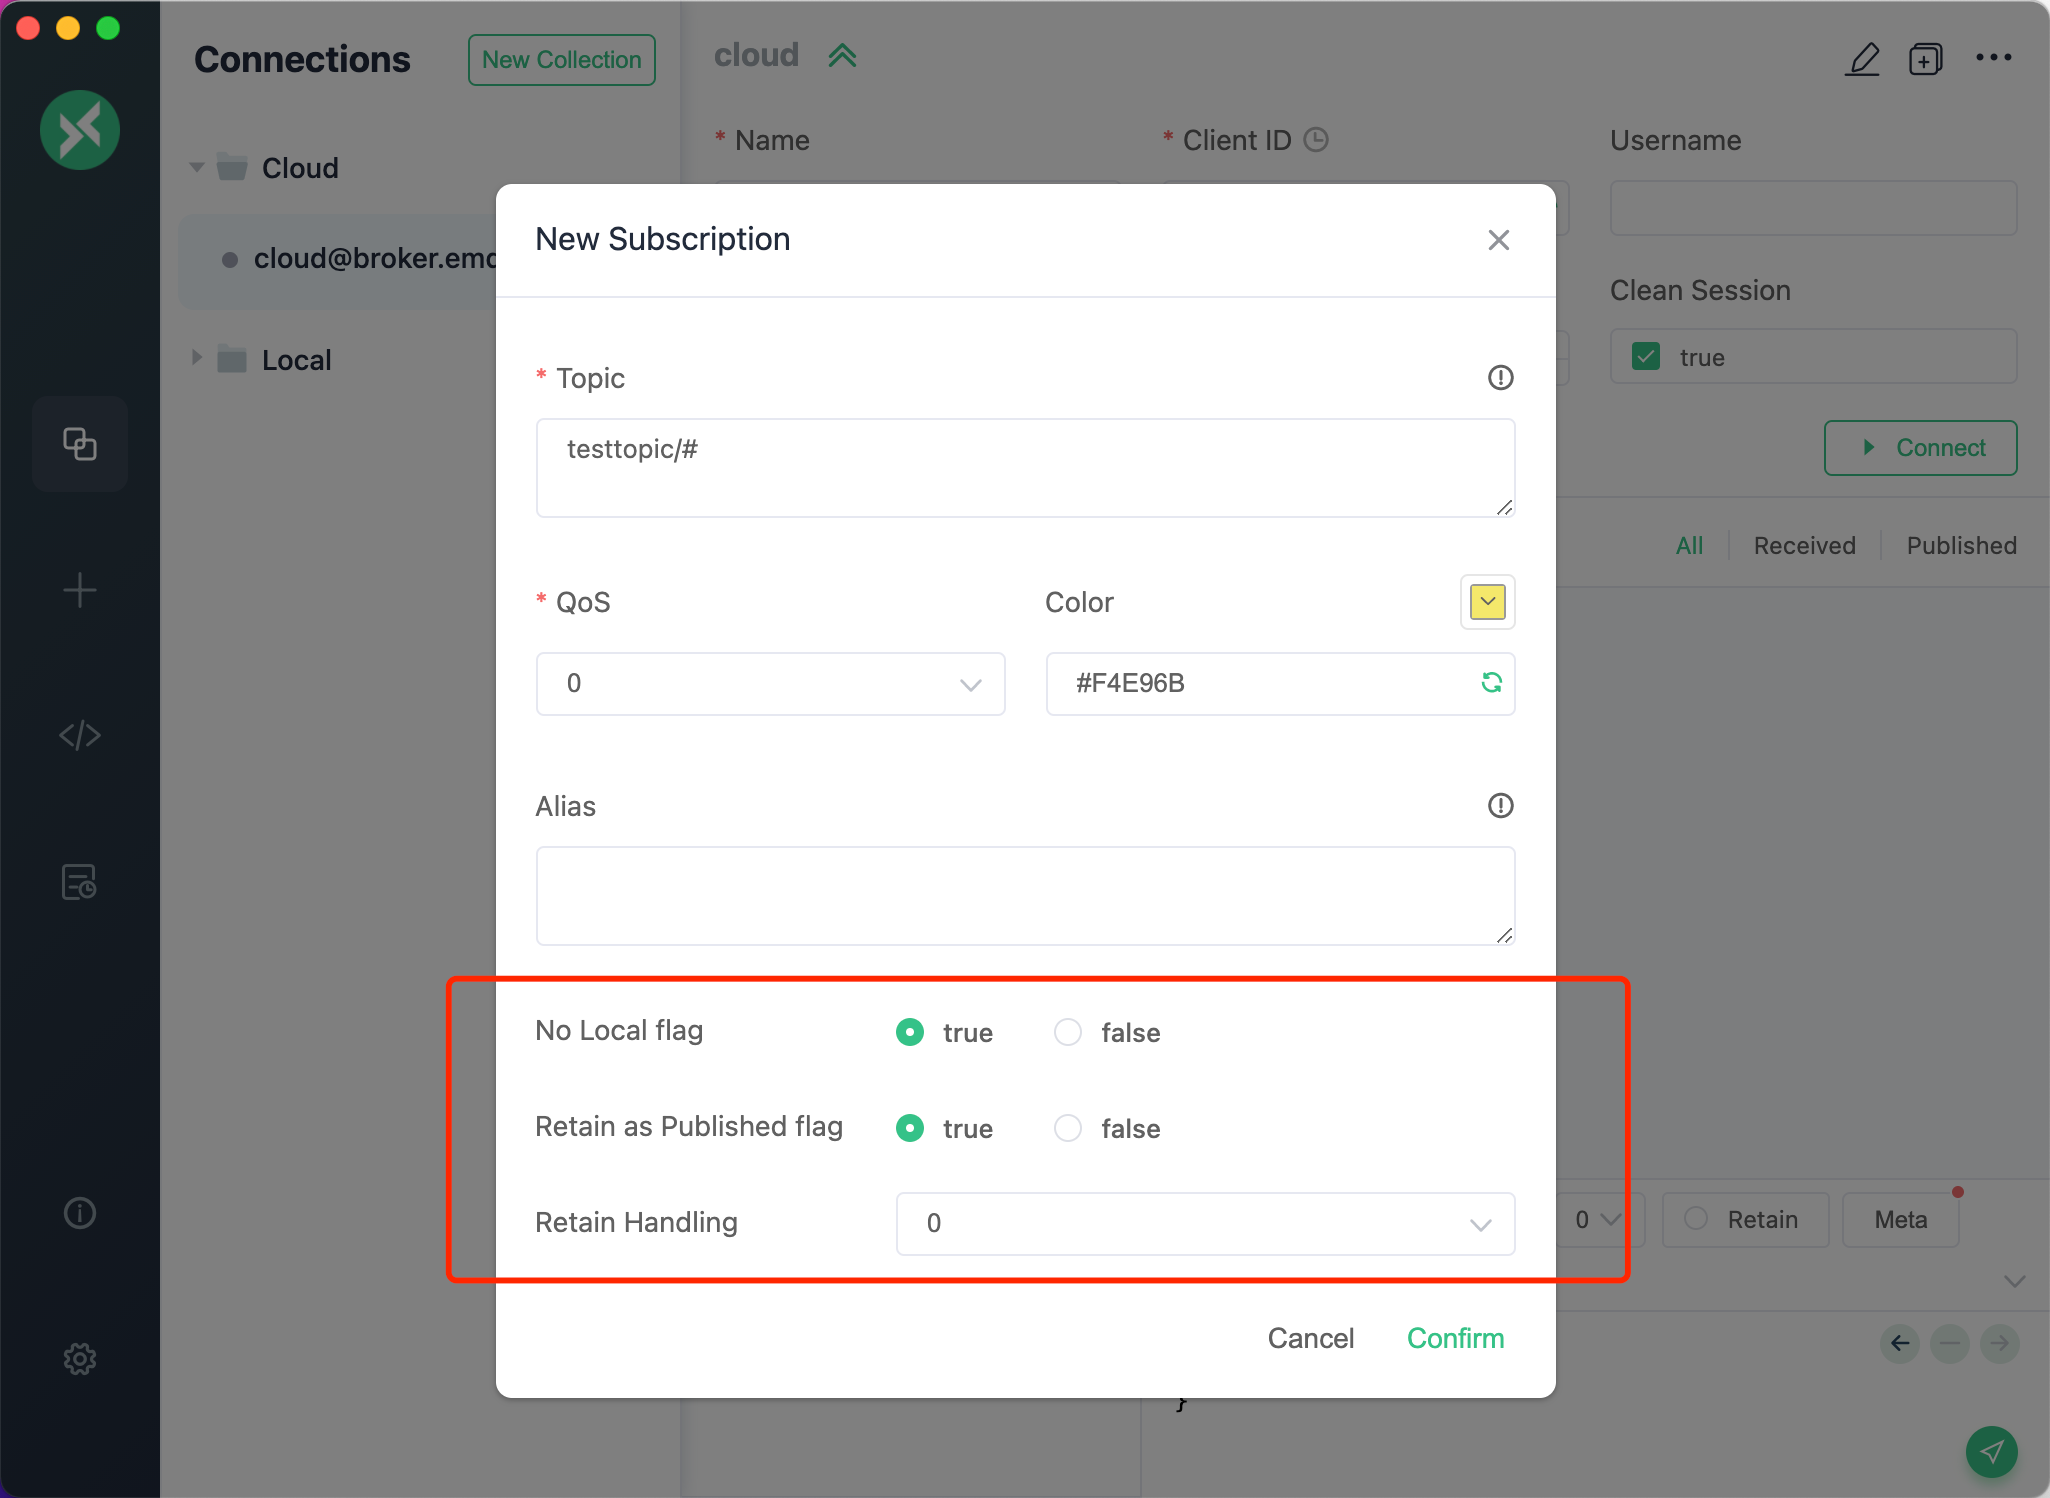
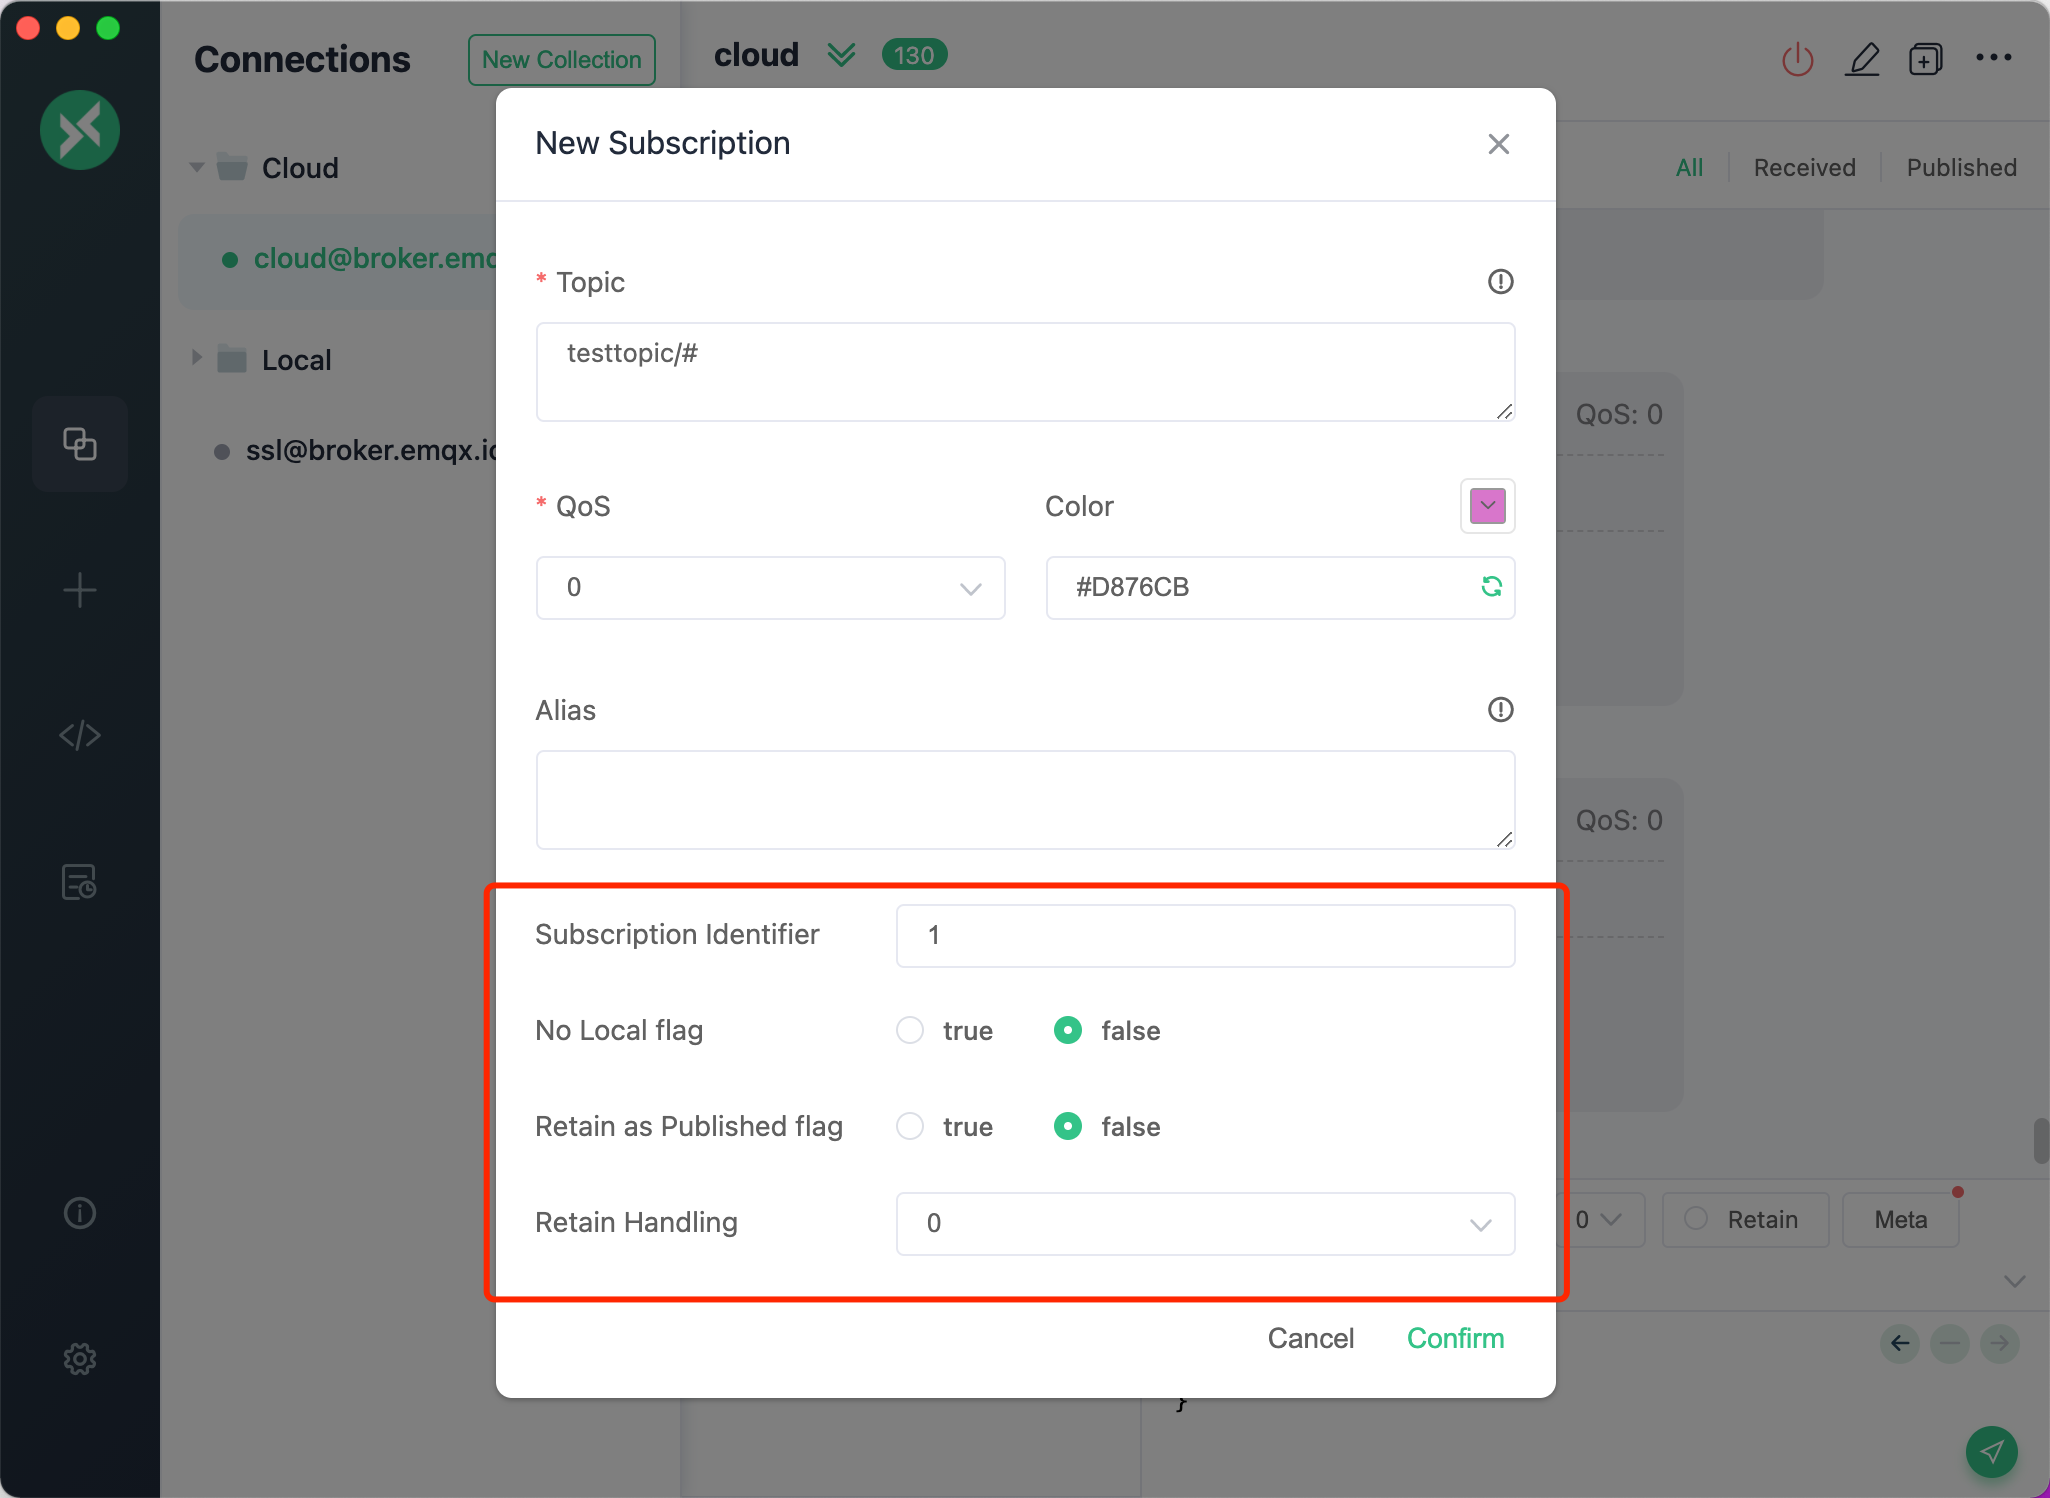
docs(manual): update docs

diff --git a/docs/manual.md b/docs/manual.md
@@ -55,9 +55,10 @@ For Windows users, please download the latest version of the `exe` file. After d
 
 For Linux users, please download the latest version of the `AppImage` file or use the snap file for quick installation.
 
-For installation using `snap` file, you can also execute this command to quickly install or visit Snap Store:
+For installation using `snap` file, you can also execute this command to quickly install or visit Snap Store or Flathub:
 
 [![Get it from the Snap Store](https://snapcraft.io/static/images/badges/en/snap-store-black.svg)](https://snapcraft.io/mqttx)
+<a href='https://flathub.org/apps/details/com.emqx.MQTTX'><img height='56' alt='Download on Flathub' src='https://flathub.org/assets/badges/flathub-badge-en.png'/></a>
 
 ```shell
 sudo snap install mqttx
@@ -159,6 +160,10 @@ After the configuration is complete, click the `Connect` button in the upper rig
 
 ![mqttx-muti-topics](../assets/mqttx-muti-topics.png)
 
+   Subscribed Topics support **Edit/Disable/Enable**, right click on the subscribed Topic list item, in the context menu we can quickly choose to edit, disable or enable the operation. When subscribing to too many Topics, sometimes not all the Topic messages you want to receive, in order to avoid subscribing to the same Topic again, the disable function is provided, if you want to receive messages from the Topic again, just enable it again.
+
+![mqttx-edit-topic](../assets/mqttx-edit-topic.png)
+
 3. Sending and receiving of messages
 
    After the `Topic` is successfully subscribed, you can test the sending and receiving of messages. Fill in the `Topic` information you just subscribed to in the lower right corner of the page. You can select the values of `QoS`, `Retain`, input `payload`, and click the send button on the far right to send a message to the `Topic` you just subscribed. After sending successfully, you can immediately receive the message just sent. Note that in the message box, the right column is the sent message, and the left column is the received message. MacOS users can use the `command + enter` shortcut to quickly send messages, and other users can use the `control + enter` shortcut to do that.
@@ -193,9 +198,9 @@ So far, the test of an `MQTT` message is completed.
 
 ![mqttx-content-type](../assets/mqttx-content-type.png)
 
-4. Subscribe Flags
+4. Subscription identifier and subscription options
 
-    We open the dialog of the subscription topic and we can see that the configuration options containing No Local, Retain as Published and Retain Handling appear at the bottom and the user can use these subscription options to change the behavior of the server.
+   We open the pop-up box for the Subscription topic, below which you can set the Subscription Identifier and the subscription options that contain No Local, Retain as Published and Retain Handling. The user can specify a numeric subscription identifier in the subscription message and return this identifier when the message is distributed. Clients can establish a mapping of subscription identifiers to message handlers to direct messages to the corresponding message handler via the subscription identifier when a PUBLISH message is received, and can configure these subscription options to change the behavior of the server.
 
 ![mqttx-sub-flag](../assets/mqttx-sub-flag.png)
 
